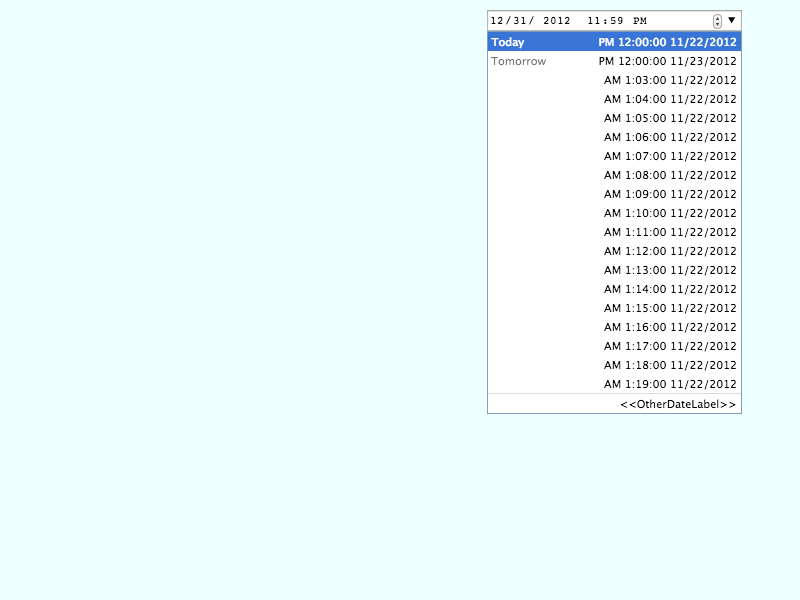
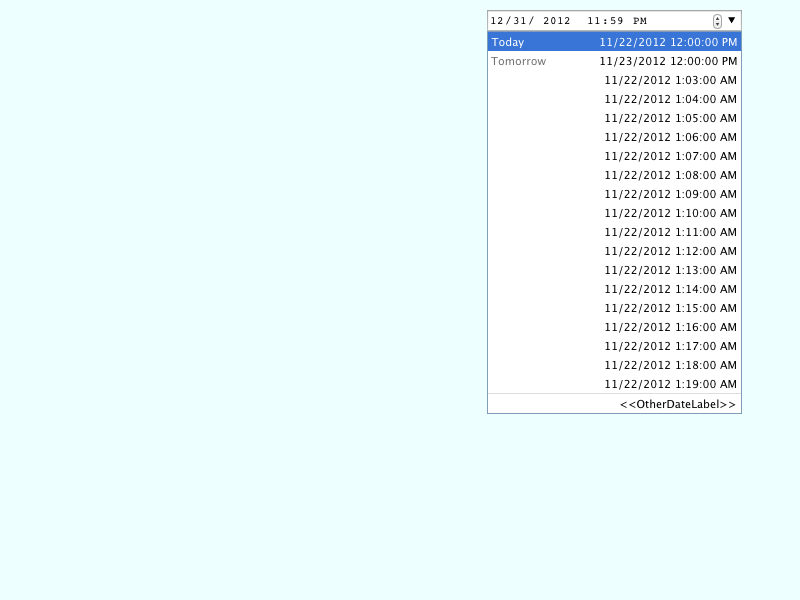
Fix text direction in datalist popup for time controls https://bugs.webkit.org/show_bug.cgi?id=103853
Reviewed by Kent Tamura.

Source/WebCore:

The datalist entry value should be displayed with the same text direction as the date/time format.

Tests: platform/chromium/fast/forms/suggestion-picker/datetime-suggestion-picker-appearance-locale-hebrew.html
       platform/chromium/fast/forms/suggestion-picker/datetimelocal-suggestion-picker-appearance-locale-hebrew.html
       platform/chromium/fast/forms/suggestion-picker/time-suggestion-picker-appearance-locale-hebrew.html

* Resources/pagepopups/calendarPicker.js: Renamed isCalendarRTL to isLocaleRTL.
(CalendarPicker.prototype._layout):
(CalendarPicker.prototype.fixWindowSize):
(DaysTable.prototype._handleKey):
(MonthPickerDaysTable.prototype._handleKey):
(WeekPickerDaysTable.prototype._handleKey):
* Resources/pagepopups/suggestionPicker.css:
(.suggestion-list-entry .title): Title should have the same text direction as the locale.
(.locale-rtl .suggestion-list-entry .title):
* Resources/pagepopups/suggestionPicker.js:
(SuggestionPicker.prototype._layout): Add locale-rtl class if the isLocaleRTL is true.

Source/WebKit/chromium:

* src/DateTimeChooserImpl.cpp:
(WebKit::DateTimeChooserImpl::writeDocument): Renamed isCalendarRTL to isLocaleRTL.

LayoutTests:

* platform/chromium-mac/platform/chromium/fast/forms/suggestion-picker/datetime-suggestion-picker-appearance-locale-hebrew-expected.png: Added.
* platform/chromium-mac/platform/chromium/fast/forms/suggestion-picker/datetime-suggestion-picker-appearance-rtl-expected.png:
[…]

Changed region(s): [[0.75, 0.06, 0.9375, 0.69], [0.625, 0.06, 0.6562, 0.09]]

diff --git a/Source/WebCore/Resources/pagepopups/calendarPicker.js b/Source/WebCore/Resources/pagepopups/calendarPicker.js
@@ -718,7 +718,7 @@ CalendarPicker.prototype.cleanup = function() {
 };
 
 CalendarPicker.prototype._layout = function() {
-    if (this._config.isCalendarRTL)
+    if (this._config.isLocaleRTL)
         this._element.classList.add("rtl");
     this._yearMonthController.attachTo(this._element);
     this._daysTable.attachTo(this._element);
@@ -753,7 +753,7 @@ CalendarPicker.prototype.fixWindowSize = function() {
     var DaysAreaContainerBorder = 1;
     var yearMonthEnd;
     var daysAreaEnd;
-    if (global.params.isCalendarRTL) {
+    if (global.params.isLocaleRTL) {
         var startOffset = this._element.offsetLeft + this._element.offsetWidth;
         yearMonthEnd = startOffset - yearMonthRightElement.offsetLeft;
         daysAreaEnd = startOffset - (daysAreaElement.offsetLeft + daysAreaElement.offsetWidth) + weekColumnWidth + maxCellWidth * 7 + DaysAreaContainerBorder;
@@ -1496,7 +1496,7 @@ DaysTable.prototype._handleKey = function(event) {
         return;
     }
 
-    if (key == (global.params.isCalendarRTL ? "Right" : "Left")) {
+    if (key == (global.params.isLocaleRTL ? "Right" : "Left")) {
         if (x == 0) {
             if (y == 0) {
                 if (!this._maybeSetPreviousMonth())
@@ -1518,7 +1518,7 @@ DaysTable.prototype._handleKey = function(event) {
             y--;
         this.updateSelection(event, x, y);
 
-    } else if (key == (global.params.isCalendarRTL ? "Left" : "Right")) {
+    } else if (key == (global.params.isLocaleRTL ? "Left" : "Right")) {
         if (x == 6) {
             if (y == DaysTable._Weeks - 1) {
                 if (!this._maybeSetNextMonth())
@@ -1654,13 +1654,13 @@ MonthPickerDaysTable.prototype._handleKey = function(event) {
         && (key == "Right" || key == "Left" || key == "Up" || key == "Down" || key == "PageUp" || key == "PageDown")) {
         this.selectRange(currentMonth);
         eventHandled = true;
-    } else if (key == (global.params.isCalendarRTL ? "Right" : "Left") || key == "Up" || key == "PageUp") {
+    } else if (key == (global.params.isLocaleRTL ? "Right" : "Left") || key == "Up" || key == "PageUp") {
         if (selectedMonth.valueOf() > currentMonth.valueOf())
             this.selectRangeAndShowEntireRange(currentMonth);
         else
             this.selectRangeAndShowEntireRange(currentMonth.previous());
         eventHandled = true;
-    } else if (key == (global.params.isCalendarRTL ? "Left" : "Right") || key == "Down" || key == "PageDown") {
+    } else if (key == (global.params.isLocaleRTL ? "Left" : "Right") || key == "Down" || key == "PageDown") {
         if (selectedMonth.valueOf() < currentMonth.valueOf())
             this.selectRangeAndShowEntireRange(currentMonth);
         else
@@ -1762,10 +1762,10 @@ WeekPickerDaysTable.prototype._handleKey = function(event) {
         && (key == "Right" || key == "Left" || key == "Up" || key == "Down" || key == "PageUp" || key == "PageDown")) {
         // Put the selection on a center cell.
         this._selectRangeAtPosition(3, Math.floor(DaysTable._Weeks / 2 - 1));
-    } else if (key == (global.params.isCalendarRTL ? "Right" : "Left") || key == "Up") {
+    } else if (key == (global.params.isLocaleRTL ? "Right" : "Left") || key == "Up") {
         this.selectRangeAndShowEntireRange(selectedWeek.previous());
         eventHandled = true;
-    } else if (key == (global.params.isCalendarRTL ? "Left" : "Right") || key == "Down") {
+    } else if (key == (global.params.isLocaleRTL ? "Left" : "Right") || key == "Down") {
         this.selectRangeAndShowEntireRange(selectedWeek.next());
         eventHandled = true;
     } else if (key == "PageUp") {

diff --git a/LayoutTests/platform/chromium/fast/forms/suggestion-picker/datetime-suggestion-picker-appearance-locale-hebrew.html b/LayoutTests/platform/chromium/fast/forms/suggestion-picker/datetime-suggestion-picker-appearance-locale-hebrew.html
@@ -1,0 +1,51 @@
+<!DOCTYPE html>
+<html>
+<head>
+<script>
+window.enablePixelTesting = true;
+if (window.internals)
+    internals.settings.setLangAttributeAwareFormControlUIEnabled(true);
+</script>
+<script src="../../../../../fast/js/resources/js-test-pre.js"></script>
+<script src="../../../../../fast/forms/resources/picker-common.js"></script>
+<script src="resources/suggestion-picker-common.js"></script>
+</head>
+<body style="background-color: #eeffff; padding: 0 50px;">
+<input type=datetime id=datetime value="2012-12-31T23:59Z" lang="he-il" list="suggestions" style="width: 250px;">
+<datalist id=suggestions>
+    <option label="Today">2012-11-22T12:00Z</option>
+    <option label="Tomorrow">2012-11-23T12:00Z</option>
+    <option>2012-11-22T01:03Z</option>
+    <option>2012-11-22T01:04Z</option>
+    <option>2012-11-22T01:05Z</option>
+    <option>2012-11-22T01:06Z</option>
+    <option>2012-11-22T01:07Z</option>
+    <option>2012-11-22T01:08Z</option>
+    <option>2012-11-22T01:09Z</option>
+    <option>2012-11-22T01:10Z</option>
+    <option>2012-11-22T01:11Z</option>
+    <option>2012-11-22T01:12Z</option>
+    <option>2012-11-22T01:13Z</option>
+    <option>2012-11-22T01:14Z</option>
+    <option>2012-11-22T01:15Z</option>
+    <option>2012-11-22T01:16Z</option>
+    <option>2012-11-22T01:17Z</option>
+    <option>2012-11-22T01:18Z</option>
+    <option>2012-11-22T01:19Z</option>
+</datalist>
+
+<p id="description" style="opacity: 0"></p>
+<div id="console" style="opacity: 0"></div>
+
+<script>
+openPicker(document.getElementById('datetime'), finishTest);
+
+function finishTest() {
+    popupWindow.focus();
+    eventSender.keyDown('downArrow');
+    finishJSTest();
+}
+</script>
+<script src="../../../../../fast/js/resources/js-test-post.js"></script>
+</body>
+</html>

diff --git a/LayoutTests/platform/chromium/fast/forms/suggestion-picker/datetimelocal-suggestion-picker-appearance-locale-hebrew.html b/LayoutTests/platform/chromium/fast/forms/suggestion-picker/datetimelocal-suggestion-picker-appearance-locale-hebrew.html
@@ -1,0 +1,51 @@
+<!DOCTYPE html>
+<html>
+<head>
+<script>
+window.enablePixelTesting = true;
+if (window.internals)
+    internals.settings.setLangAttributeAwareFormControlUIEnabled(true);
+</script>
+<script src="../../../../../fast/js/resources/js-test-pre.js"></script>
+<script src="../../../../../fast/forms/resources/picker-common.js"></script>
+<script src="resources/suggestion-picker-common.js"></script>
+</head>
+<body style="background-color: #eeffff; padding: 0 50px;">
+<input type=datetime-local id=datetime-local value="2012-12-31T23:59" lang="he-il" list="suggestions" style="width: 250px;">
+<datalist id=suggestions>
+    <option label="Today">2012-11-22T12:00</option>
+    <option label="Tomorrow">2012-11-23T12:00</option>
+    <option>2012-11-22T01:03</option>
+    <option>2012-11-22T01:04</option>
+    <option>2012-11-22T01:05</option>
+    <option>2012-11-22T01:06</option>
+    <option>2012-11-22T01:07</option>
+    <option>2012-11-22T01:08</option>
+    <option>2012-11-22T01:09</option>
+    <option>2012-11-22T01:10</option>
+    <option>2012-11-22T01:11</option>
+    <option>2012-11-22T01:12</option>
+    <option>2012-11-22T01:13</option>
+    <option>2012-11-22T01:14</option>
+    <option>2012-11-22T01:15</option>
+    <option>2012-11-22T01:16</option>
+    <option>2012-11-22T01:17</option>
+    <option>2012-11-22T01:18</option>
+    <option>2012-11-22T01:19</option>
+</datalist>
+
+<p id="description" style="opacity: 0"></p>
+<div id="console" style="opacity: 0"></div>
+
+<script>
+openPicker(document.getElementById('datetime-local'), finishTest);
+
+function finishTest() {
+    popupWindow.focus();
+    eventSender.keyDown('downArrow');
+    finishJSTest();
+}
+</script>
+<script src="../../../../../fast/js/resources/js-test-post.js"></script>
+</body>
+</html>

diff --git a/LayoutTests/platform/chromium/fast/forms/suggestion-picker/time-suggestion-picker-appearance-locale-hebrew.html b/LayoutTests/platform/chromium/fast/forms/suggestion-picker/time-suggestion-picker-appearance-locale-hebrew.html
@@ -1,0 +1,52 @@
+<!DOCTYPE html>
+<html>
+<head>
+<script>
+window.enablePixelTesting = true;
+if (window.internals)
+    internals.settings.setLangAttributeAwareFormControlUIEnabled(true);
+</script>
+<script src="../../../../../fast/js/resources/js-test-pre.js"></script>
+<script src="../../../../../fast/forms/resources/picker-common.js"></script>
+<script src="resources/suggestion-picker-common.js"></script>
+</head>
+<body style="background-color: #eeffff; padding: 0 50px;">
+<input type=time id=time value="12:31" lang="he-il" list="suggestions" style="width: 100px;">
+<datalist id=suggestions>
+    <option label="Now">01:01</option>
+    <option label="Recommended">01:02</option>
+    <option>01:03</option>
+    <option>01:04</option>
+    <option>01:05</option>
+    <option>01:06</option>
+    <option>01:07</option>
+    <option>01:08</option>
+    <option>01:09</option>
+    <option>01:10</option>
+    <option>01:11</option>
+    <option>01:12</option>
+    <option>01:13</option>
+    <option>01:14</option>
+    <option>01:15</option>
+    <option>01:16</option>
+    <option>01:17</option>
+    <option>01:18</option>
+    <option>01:19</option>
+    <option>01:20</option>
+</datalist>
+
+<p id="description" style="opacity: 0"></p>
+<div id="console" style="opacity: 0"></div>
+
+<script>
+openPicker(document.getElementById('time'), finishTest);
+
+function finishTest() {
+    popupWindow.focus();
+    eventSender.keyDown('downArrow');
+    finishJSTest();
+}
+</script>
+<script src="../../../../../fast/js/resources/js-test-post.js"></script>
+</body>
+</html>

diff --git a/Source/WebCore/Resources/pagepopups/suggestionPicker.js b/Source/WebCore/Resources/pagepopups/suggestionPicker.js
@@ -167,6 +167,8 @@ SuggestionPicker.prototype._fixWindowSize = function() {
 SuggestionPicker.prototype._layout = function() {
     if (this._config.isRTL)
         this._element.classList.add("rtl");
+    if (this._config.isLocaleRTL)
+        this._element.classList.add("locale-rtl");
     this._containerElement = createElement("ul", "suggestion-list");
     this._containerElement.addEventListener("click", this._handleEntryClick.bind(this), false);
     for (var i = 0; i < this._config.suggestionValues.length; ++i) {

diff --git a/Source/WebCore/Resources/pagepopups/suggestionPicker.css b/Source/WebCore/Resources/pagepopups/suggestionPicker.css
@@ -36,6 +36,15 @@
     padding: 0 20px 0 4px;
 }
 
+.suggestion-list-entry .title {
+    direction: ltr;
+    display: inline-block;
+}
+
+.locale-rtl .suggestion-list-entry .title {
+    direction: rtl;
+}
+
 .measuring-width .suggestion-list-entry .label {
     float: none;
     margin-right: 0;

diff --git a/Source/WebKit/chromium/src/DateTimeChooserImpl.cpp b/Source/WebKit/chromium/src/DateTimeChooserImpl.cpp
@@ -150,7 +150,7 @@ void DateTimeChooserImpl::writeDocument(WebCore::DocumentWriter& writer)
     addProperty("weekLabel", Platform::current()->queryLocalizedString(WebLocalizedString::WeekNumberLabel), writer);
     addProperty("weekStartDay", m_locale->firstDayOfWeek(), writer);
     addProperty("dayLabels", m_locale->weekDayShortLabels(), writer);
-    addProperty("isCalendarRTL", m_locale->isRTL(), writer);
+    addProperty("isLocaleRTL", m_locale->isRTL(), writer);
     addProperty("isRTL", m_parameters.isAnchorElementRTL, writer);
     addProperty("mode", m_parameters.type.string(), writer);
     if (m_parameters.suggestionValues.size()) {
